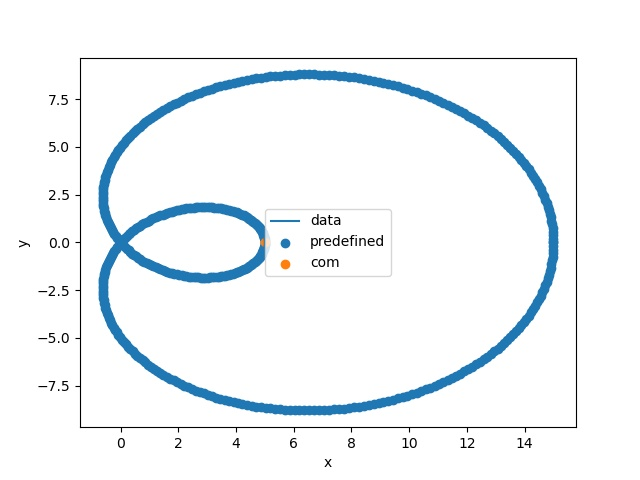
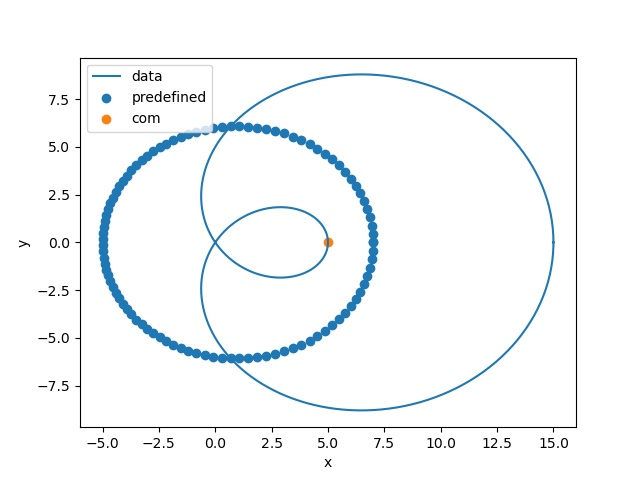
Predefined points class

diff --git a/class_trade.py b/class_trade.py
@@ -8,6 +8,7 @@ import os
 import pandas as pd
 import matplotlib.pyplot as plt
 import settings
+from class_predefined_points import PredefinedPoints
 
 
 class Trade:
@@ -128,8 +129,10 @@ def main():
     test_scale = data_object.scale_coordinates(converted, factor=10.0)
     test_velocity = data_object.get_mean_velocity(test_scale)
     test_com = data_object.get_com(test_scale)
-    test_distance = data_object.get_com_distance_list(test_scale, test_com)
-    data_object.get_plot(converted, test_scale, test_com, filename='interview_task_plot.jpg')
+    pred_object = PredefinedPoints(filename='predefined_points.csv', points_number=100)
+    additional_data = pred_object.get_signal_from_file()
+    test_distance = data_object.get_com_distance_list(additional_data, test_com)
+    data_object.get_plot(converted, additional_data, test_com, filename='interview_task_plot.jpg')
 
     print('Test running... data loaded from csv')
 

diff --git a/class_predefined_points.py b/class_predefined_points.py
@@ -1,0 +1,23 @@
+"""
+Module prepared to generate additional data- predefined points, used to analysis.
+"""
+import os
+import settings
+import numpy as np
+import pandas as pd
+
+
+class PredefinedPoints:
+    def __init__(self, filename, points_number):
+        self.filename = filename
+        self.points_number = points_number
+        self.file_path = os.path.join(settings.REPORTS_PATH, self.filename)
+        t = np.linspace(0, 2 * np.pi, self.points_number)
+        r = 6 + np.cos(t)
+        x, y = r * np.cos(t), r * np.sin(t)
+        self.signal = pd.DataFrame({'x': x, 'y': y})
+        self.signal.to_csv(self.file_path)
+
+    def get_signal_from_file(self):
+        signal = pd.read_csv(self.file_path)
+        return signal
